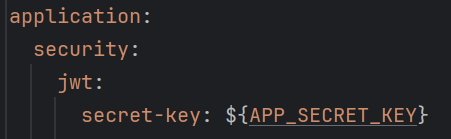
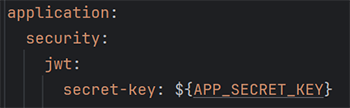
FIX README.md application.yml image

diff --git a/back-end/README.md b/back-end/README.md
@@ -61,7 +61,7 @@ The secret key is not provided. Open the application.yml file in the src\main\re
 
 Replace the ${APP_SECRET_KEY} by your environment variable or your own string "key".
 
-<img src="file://./src/main/resources/static/images/readme/jwt_env_var.png" alt="application.yml" width="300"/>
+![application.yml](src/main/resources/static/images/readme/jwt_env_var.png)
 
 ## Run the back-end
 
